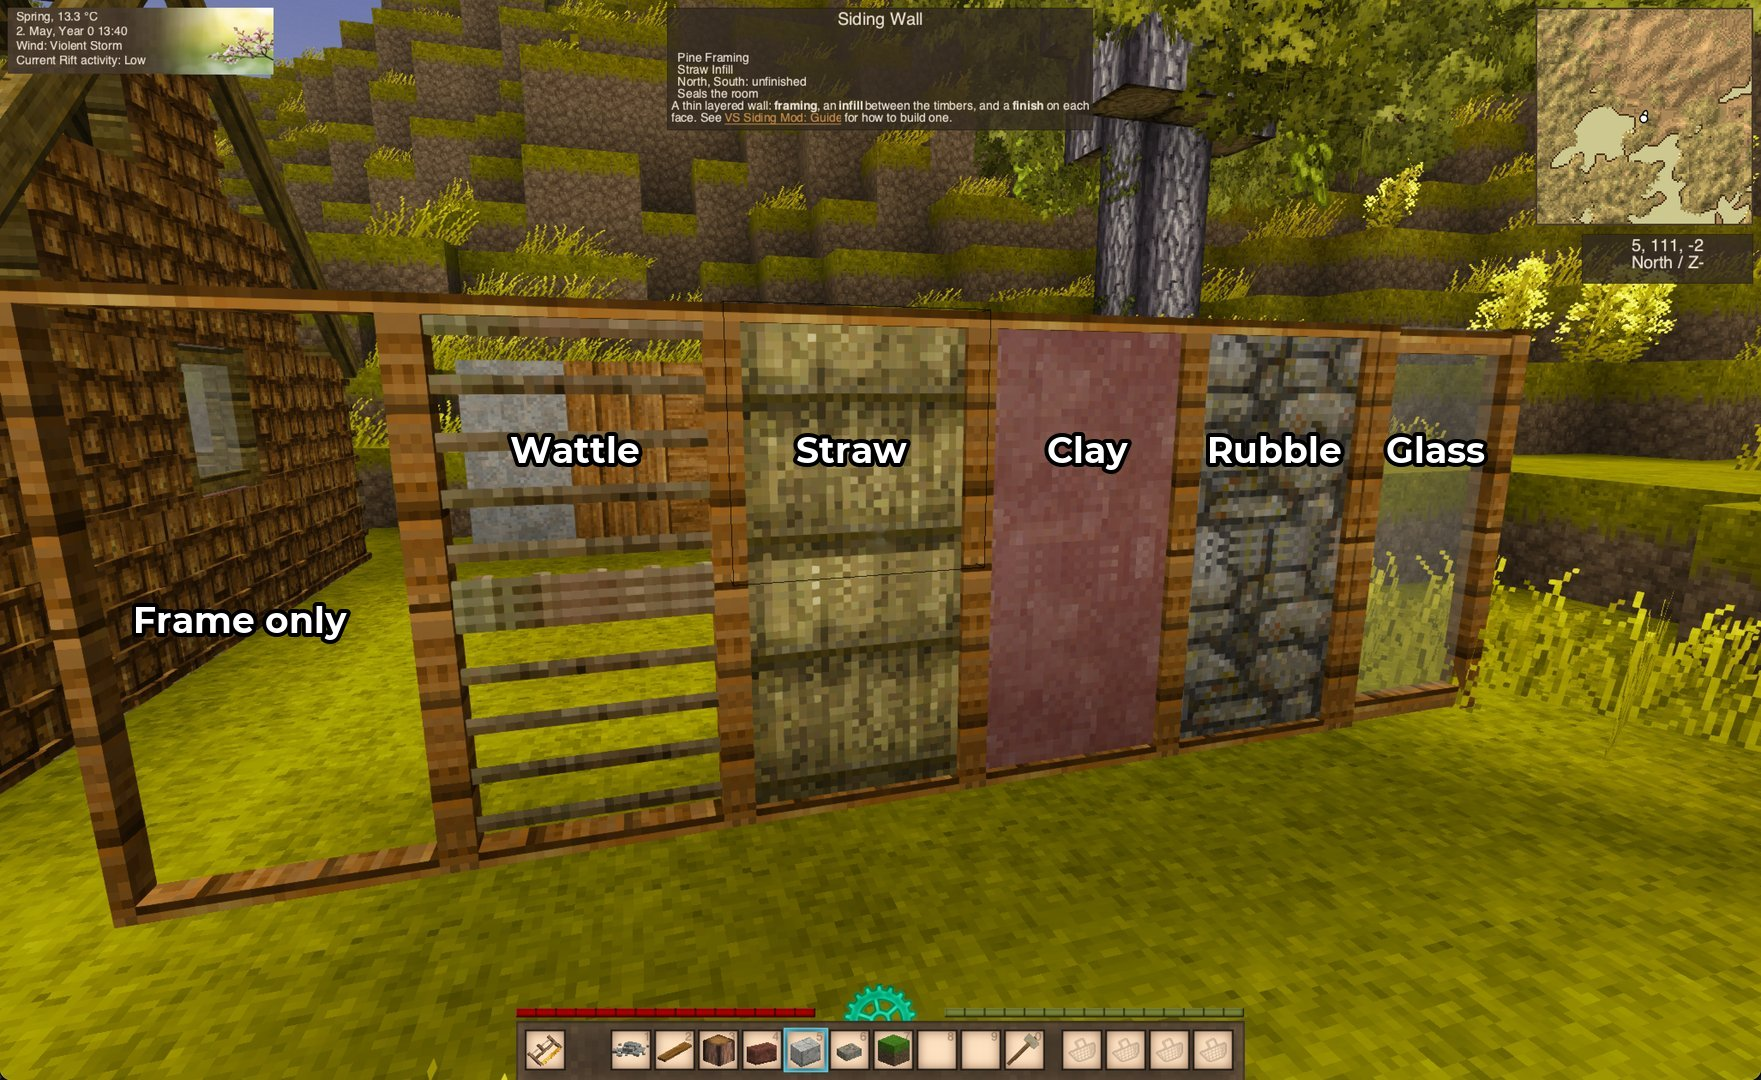
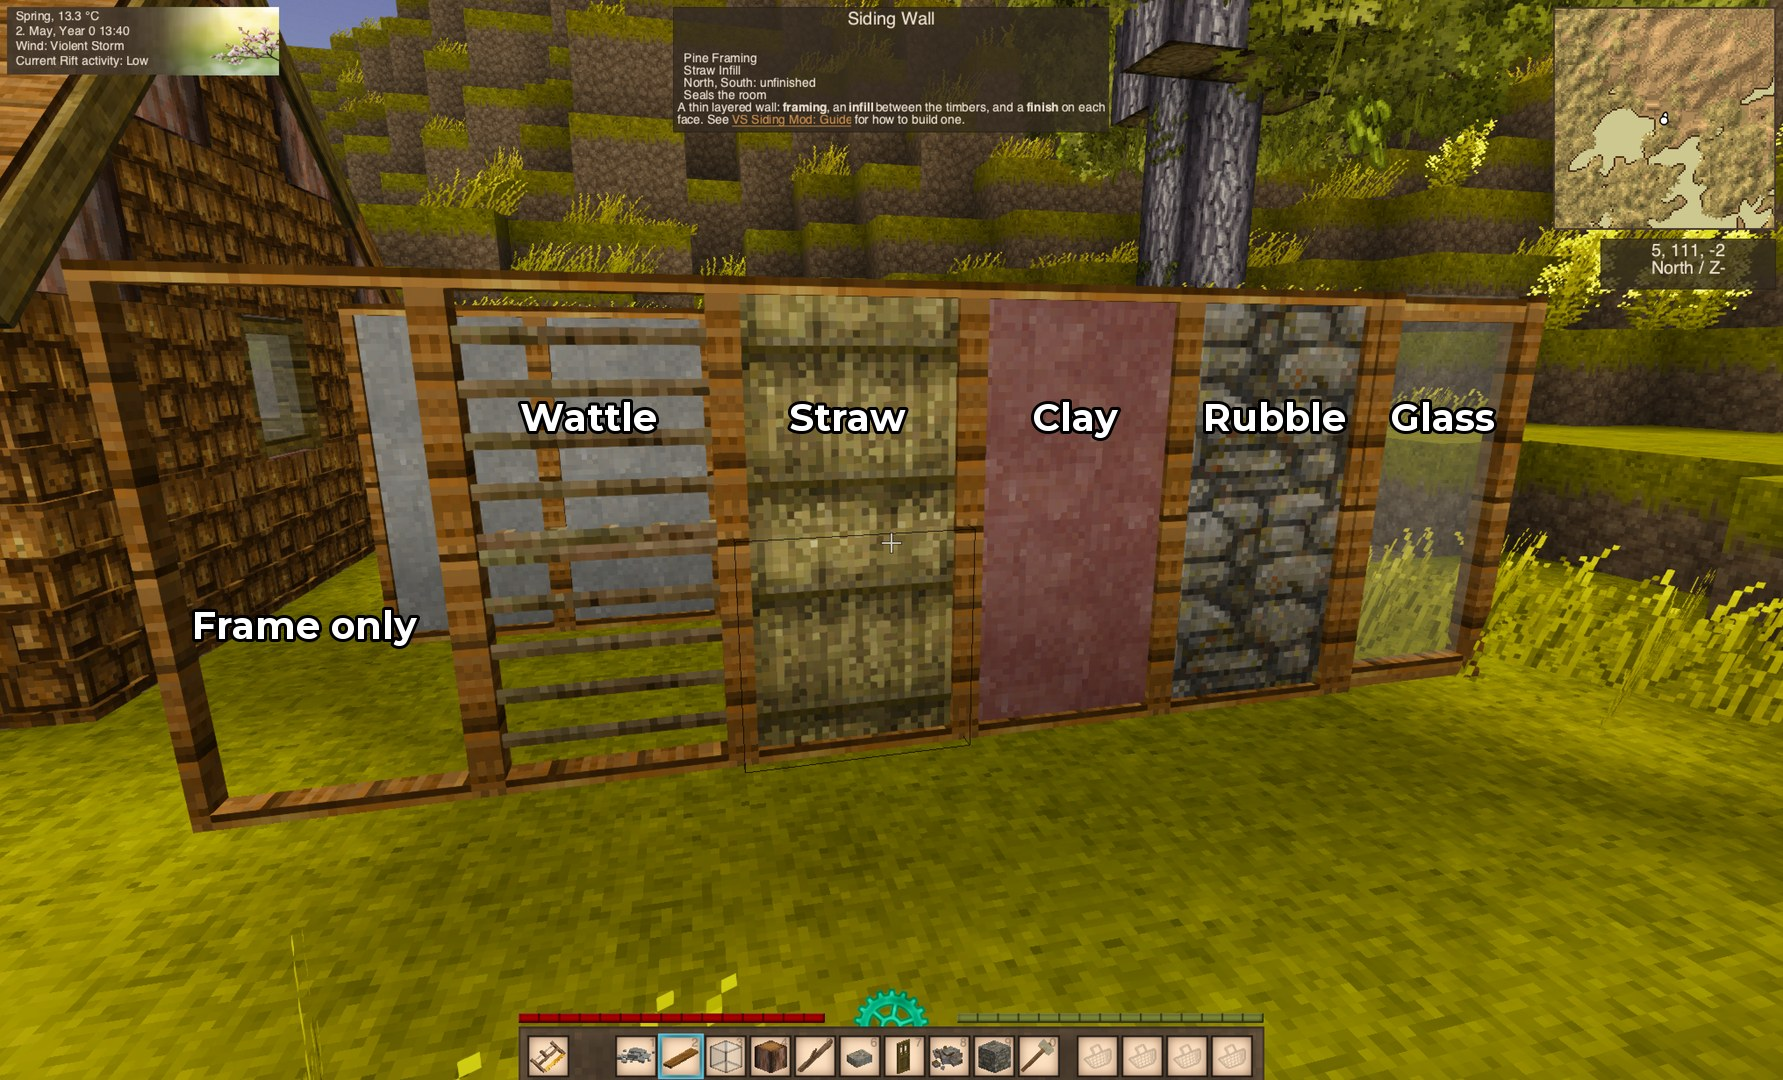
Screenshot refresh (#63)
* docs: retake framing screenshot after the seam fix
* docs: scale handbook entry screenshot to 1080p
* docs: retake interior partition screenshot with labels
* docs: update screenshot section and add an annotated interior wall sharing setup
* docs: delete now redundant decking only screenshot

diff --git a/README.md b/README.md
@@ -27,17 +27,25 @@ Glass seals the same way but lets daylight through.
 ## Screenshots
 
 The framing:
+
 ![framing-screenshot](docs/screenshots/Framing.jpg)
 
 Saw Mode picker:
+
 ![saw-mode-picker](docs/screenshots/SawModePicker.jpg)
 
 The finishes:
+
 ![finishes-inside](docs/screenshots/FinishingsInside.jpg)
 ![finishes-3D-texture](docs/screenshots/Finishings3DTexture.jpg)
 ![finishes-corner](docs/screenshots/FinishingsCorner.jpg)
 
+Interior wall sharing:
+
+![interior-wall-sharing](docs/screenshots/InteriorPartition.jpg)
+
 Handbook:
+
 ![handbook-entry](docs/screenshots/HandbookEntry.jpg)
 
 ---
